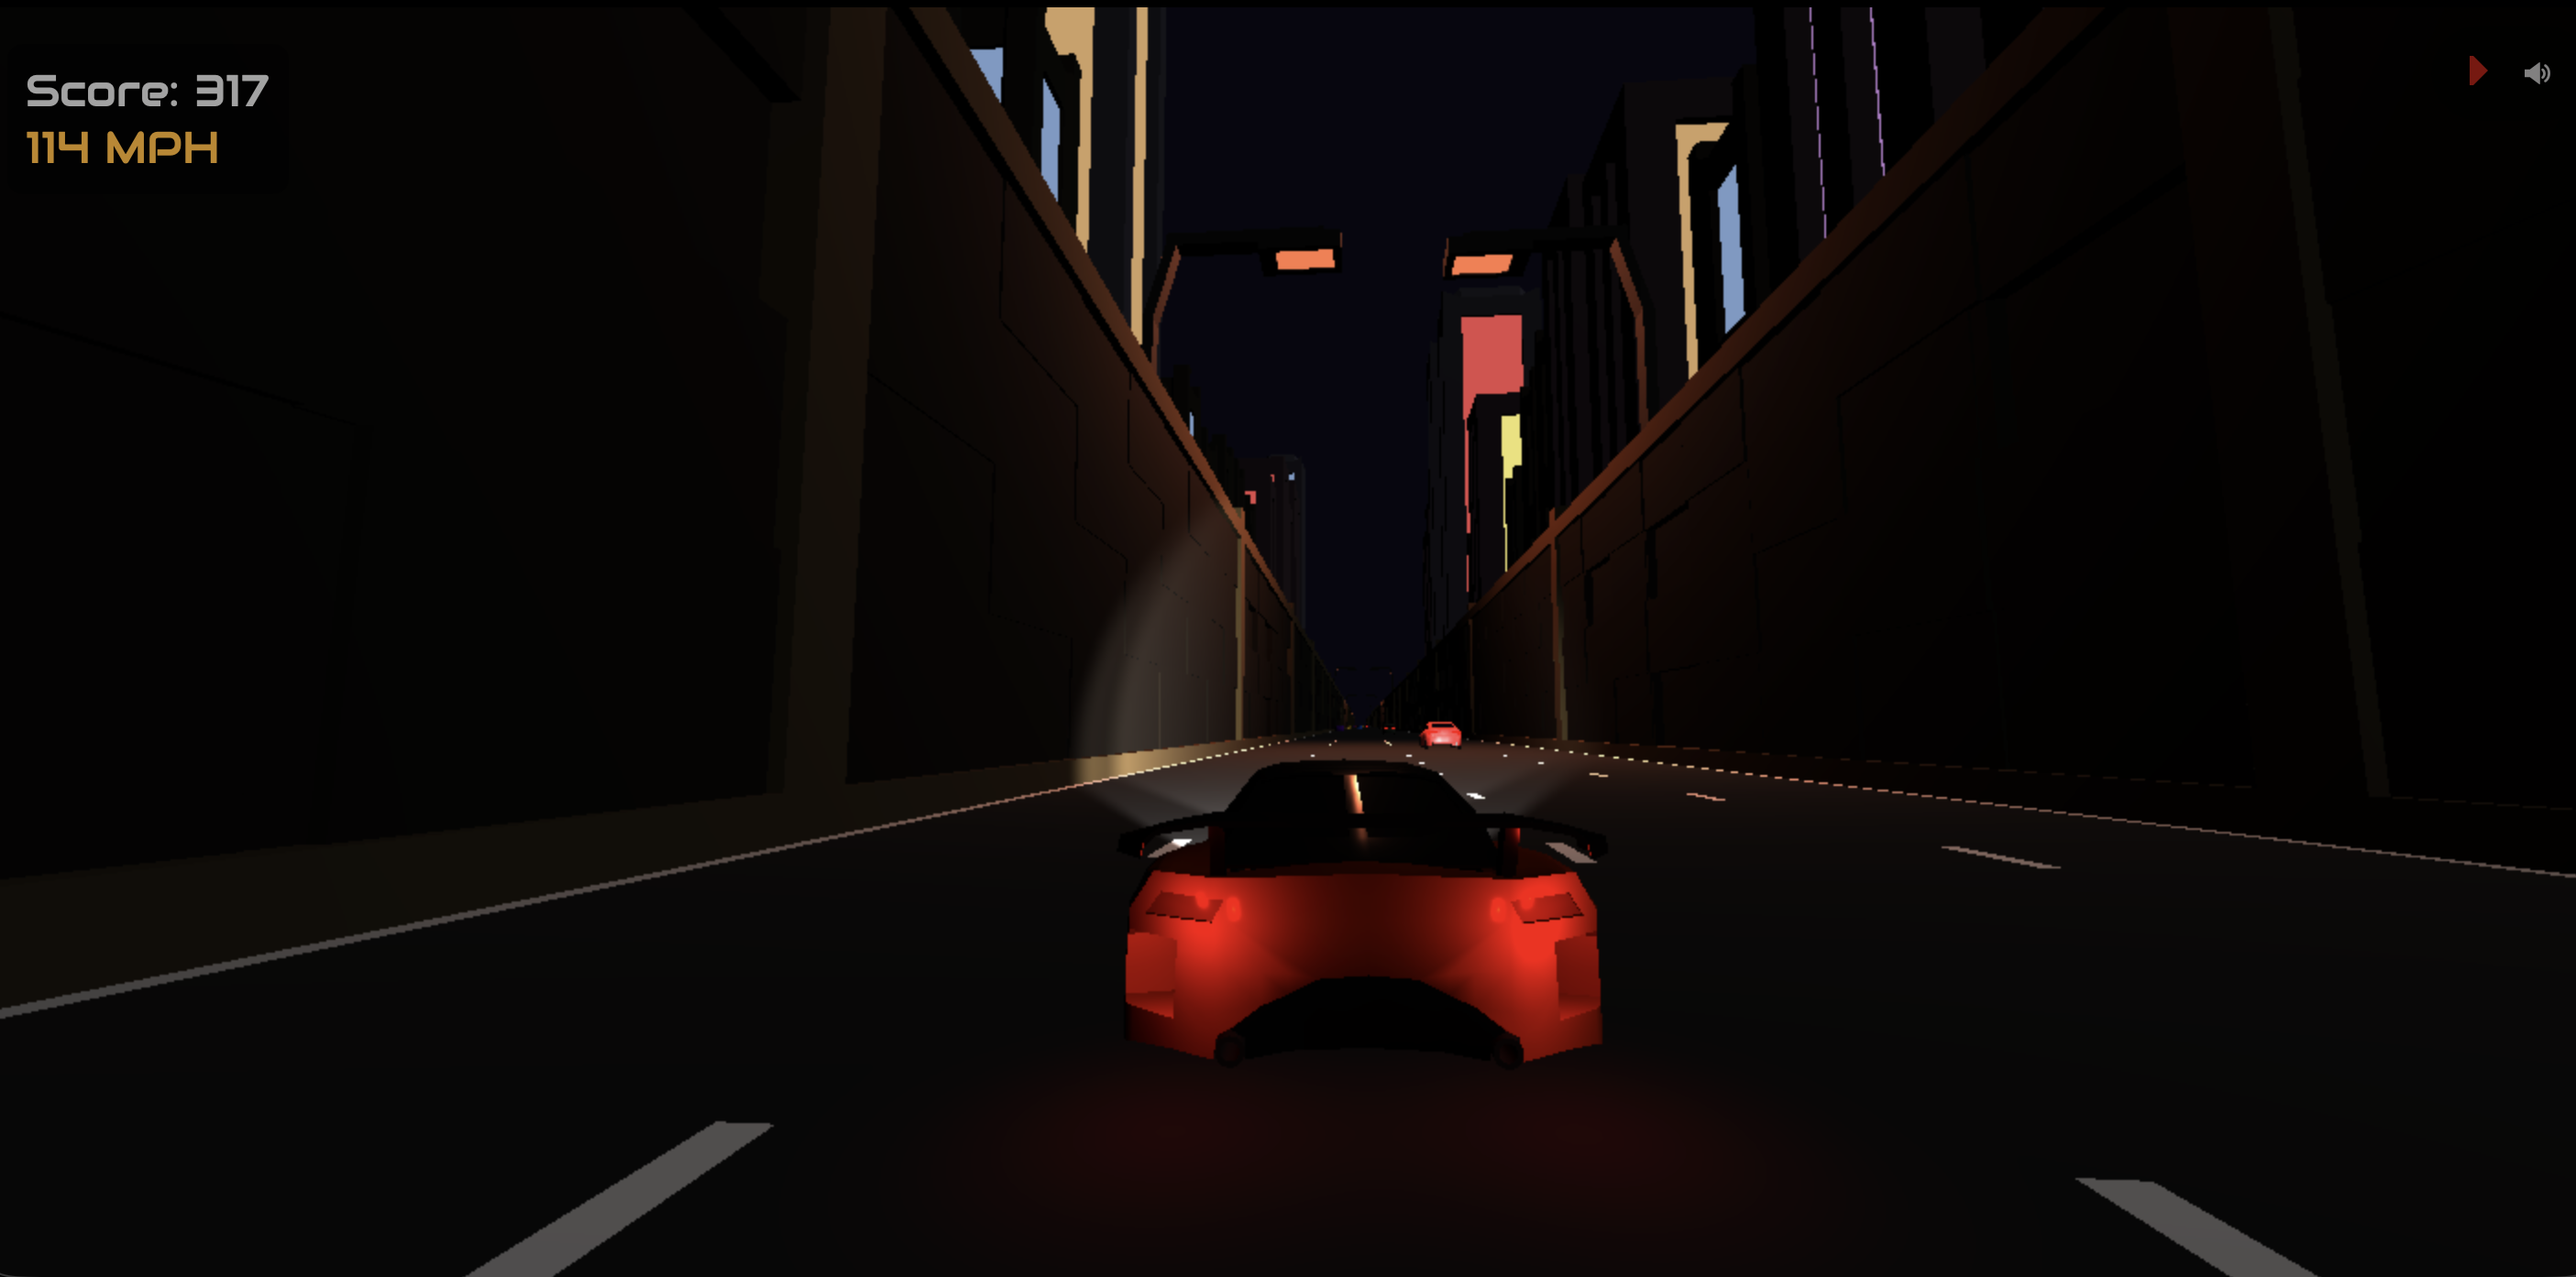
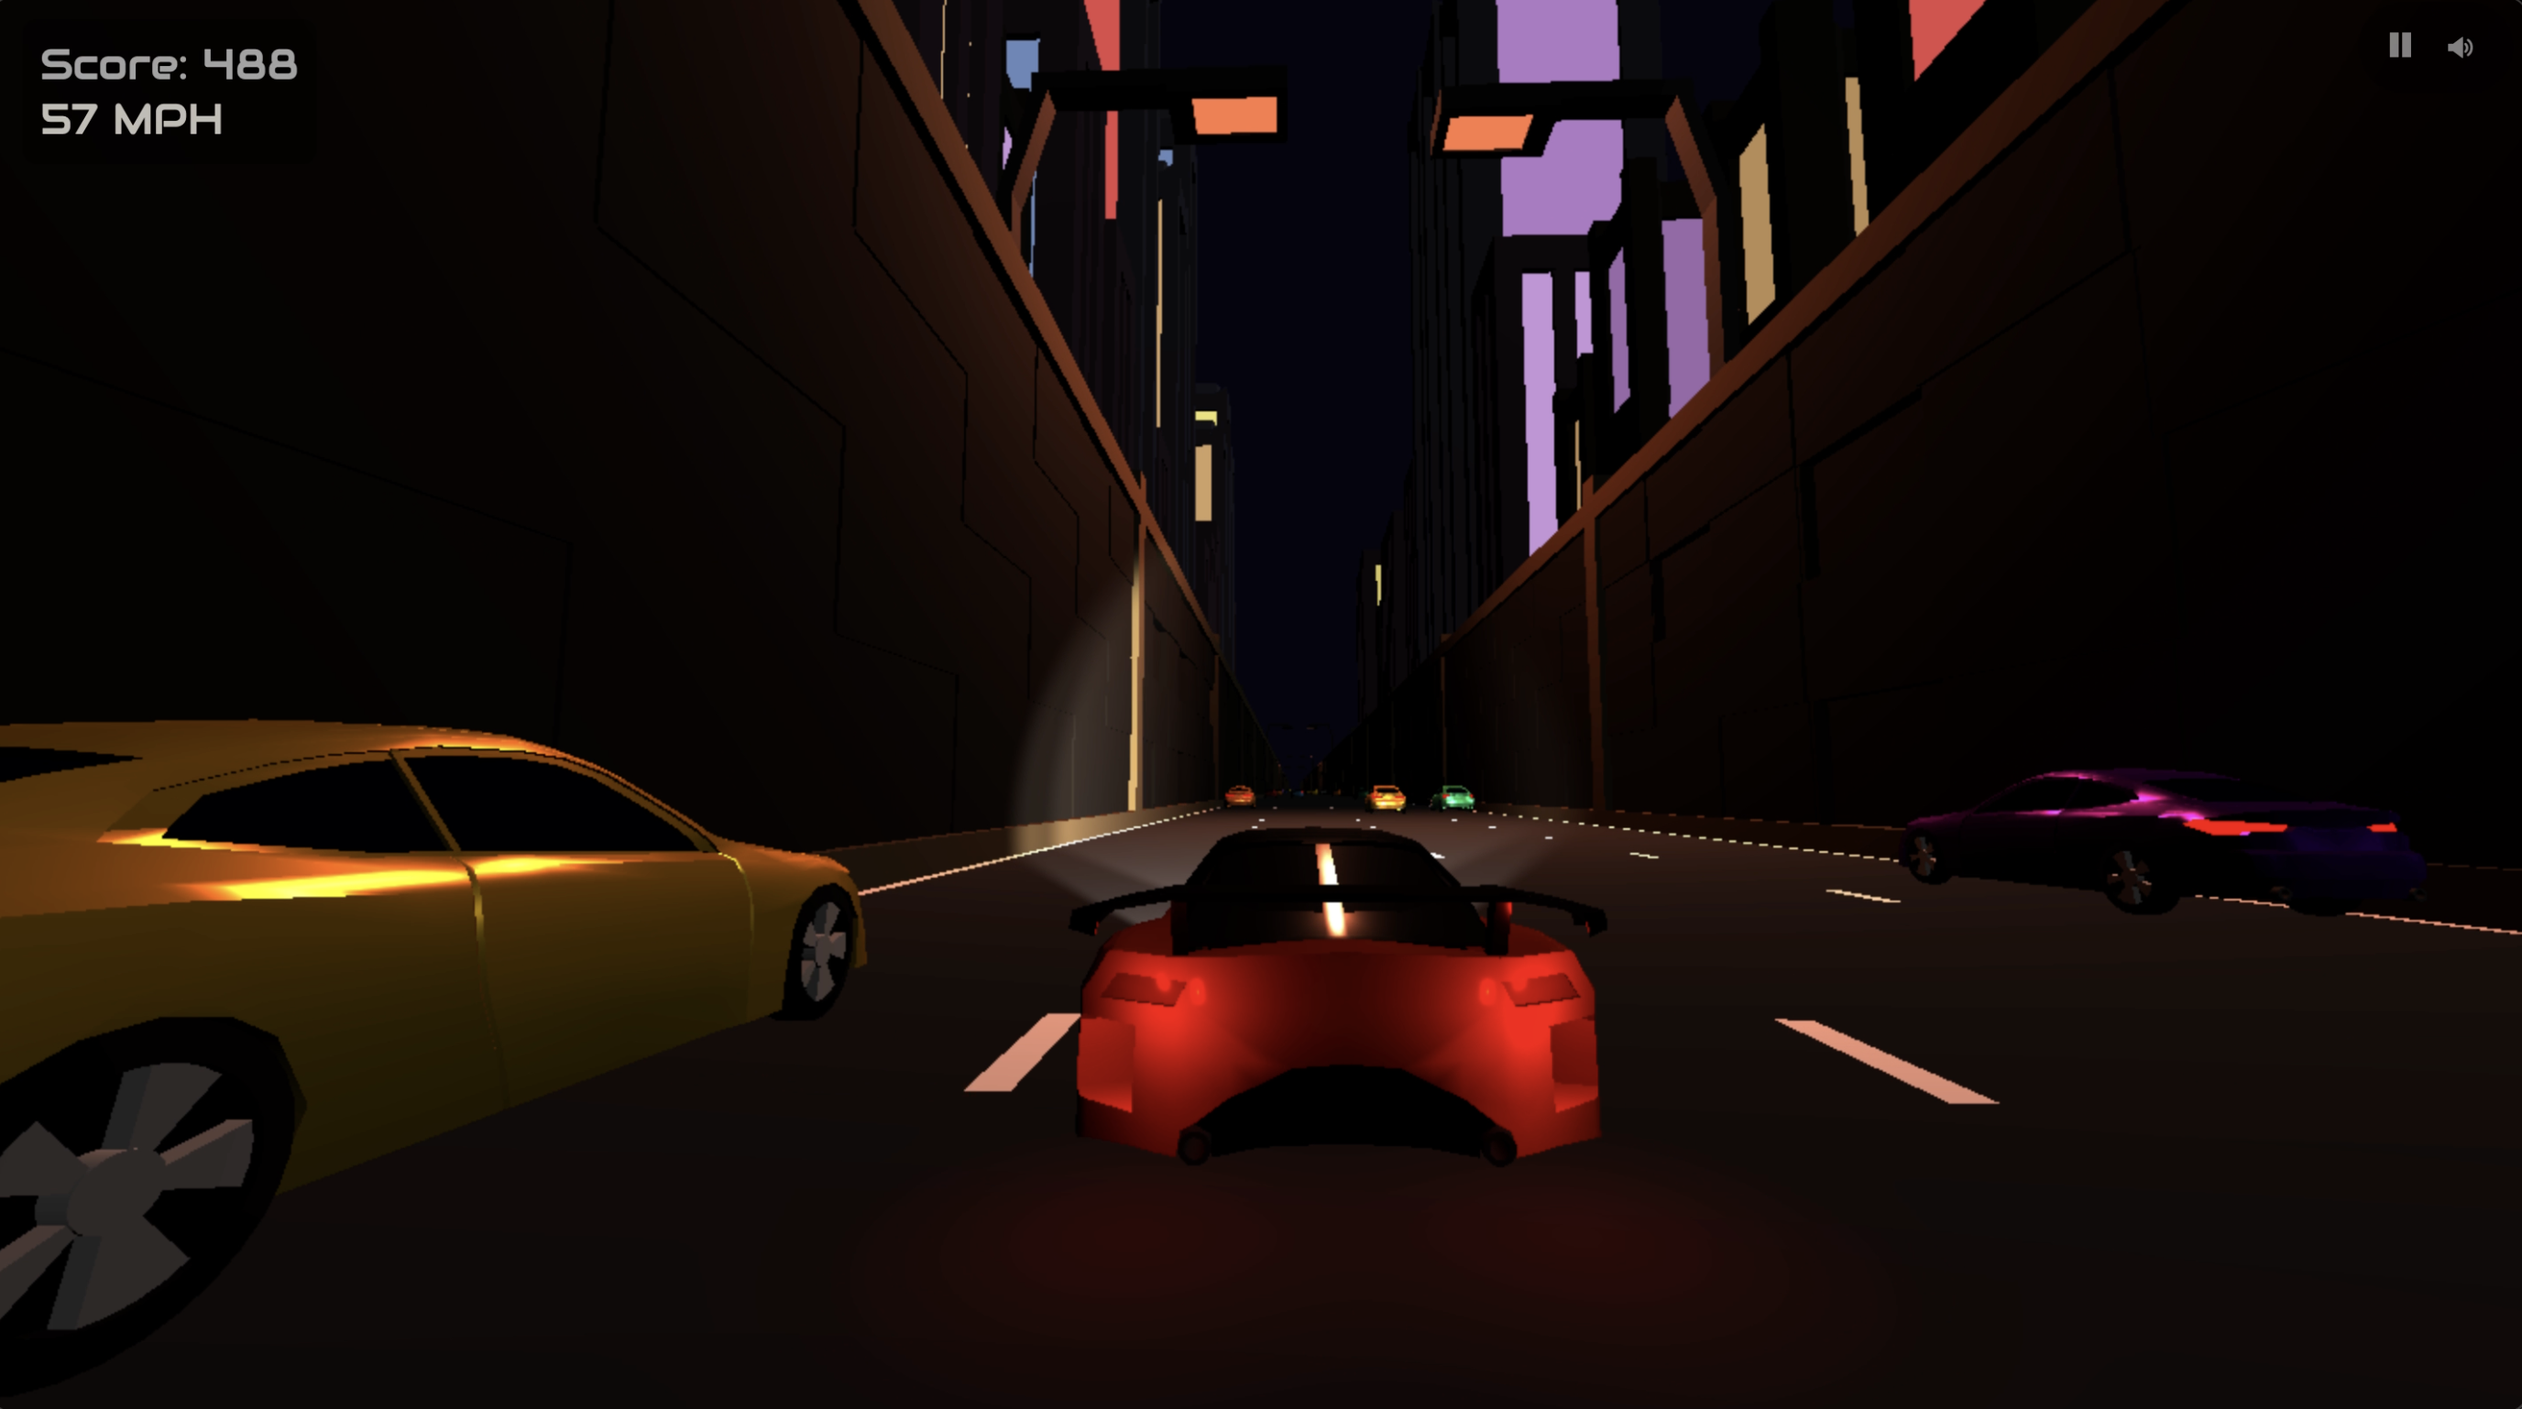
Updated README

diff --git a/README.md b/README.md
@@ -1,4 +1,4 @@
-# Infinite Drive v1.1
+# Infinite Drive v1.3
 *3D Driving Game - Take A Nighttime Drive Through An Infinitely Generating World with Traffic!*
 
 ![Image of Infinite Drive Gameplay](assets/images/gameplay_img.png)
@@ -20,6 +20,7 @@
 - Settings UI allowing you to mute or pause the game
 - Title Screen with 'How to Play' section and Player Car Color Picker
 - End Game / Restart UI allowing replayability
+- Difficulty Setting allowing easy, normal, and hard difficulty
 
 ## Controls
 - W: Accelerate
@@ -34,7 +35,7 @@
 - Wanted to keep all 3D assets self-made and low-poly, so they were created in Blender and contributed to a lightweight 2.9 MB project file size.
 - Ran into performance issues, requiring optimization of the world generation and spotlights within the project.
 
-## Title Screen
+## Game Start Screen
 ![Image of Infinite Drive menu screen](assets/images/menu_screen.png)
 
 ## Credits
